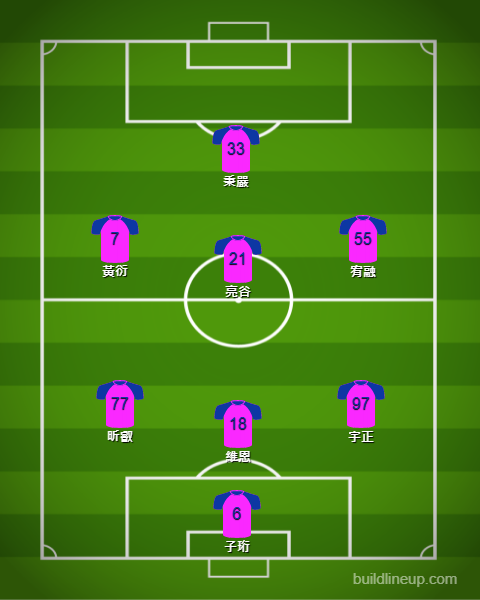
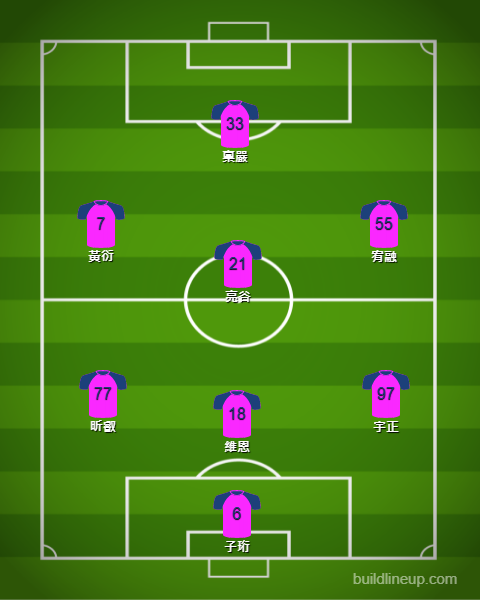
add student cup player and match data / fix typo

diff --git a/js/player.js b/js/player.js
@@ -49,7 +49,7 @@ new Vue({
                 number: '3',
                 name: '晉 丞',
                 active: true,
-                position: ['MF', 'FW'],
+                position: ['DF', 'MF', 'FW'],
                 appearance: [{
                         year: '2020',
                         cup: '新北聯合盃',
@@ -84,6 +84,14 @@ new Vue({
                         year: '2021',
                         cup: '春季大安盃',
                         g: '2',
+                        goals: '0',
+                        asts: '0',
+                        cs: '0'
+                    },
+                    {
+                        year: '2021',
+                        cup: '學童盃',
+                        g: '1',
                         goals: '0',
                         asts: '0',
                         cs: '0'
@@ -135,7 +143,7 @@ new Vue({
                     {
                         year: '2021',
                         cup: '學童盃',
-                        g: '1',
+                        g: '2',
                         goals: '0',
                         asts: '0',
                         cs: '0'
@@ -230,6 +238,14 @@ new Vue({
                         goals: '0',
                         asts: '0',
                         cs: '0'
+                    },
+                    {
+                        year: '2021',
+                        cup: '學童盃',
+                        g: '1',
+                        goals: '0',
+                        asts: '0',
+                        cs: '0'
                     }
                 ]
             },
@@ -280,6 +296,14 @@ new Vue({
                         year: '2021',
                         cup: '安聯小小世界盃',
                         g: '3',
+                        goals: '0',
+                        asts: '0',
+                        cs: '0'
+                    },
+                    {
+                        year: '2021',
+                        cup: '學童盃',
+                        g: '1',
                         goals: '0',
                         asts: '0',
                         cs: '0'
@@ -346,7 +370,7 @@ new Vue({
                     {
                         year: '2021',
                         cup: '學童盃',
-                        g: '1',
+                        g: '2',
                         goals: '0',
                         asts: '0',
                         cs: '0'
@@ -392,6 +416,14 @@ new Vue({
                         year: '2021',
                         cup: '春季大安盃',
                         g: '2',
+                        goals: '0',
+                        asts: '0',
+                        cs: '0'
+                    },
+                    {
+                        year: '2021',
+                        cup: '學童盃',
+                        g: '1',
                         goals: '0',
                         asts: '0',
                         cs: '0'
@@ -443,7 +475,7 @@ new Vue({
                     {
                         year: '2021',
                         cup: '學童盃',
-                        g: '1',
+                        g: '2',
                         goals: '1',
                         asts: '0',
                         cs: '0'
@@ -503,7 +535,7 @@ new Vue({
                     {
                         year: '2021',
                         cup: '學童盃',
-                        g: '1',
+                        g: '2',
                         goals: '0',
                         asts: '0',
                         cs: '0'
@@ -567,7 +599,7 @@ new Vue({
                 number: '23',
                 name: '柏 燁',
                 active: true,
-                position: ['MF'],
+                position: ['DF', 'MF'],
                 appearance: [{
                         year: '2021',
                         cup: '春季大安盃',
@@ -581,6 +613,14 @@ new Vue({
                         cup: '安聯小小世界盃',
                         g: '3',
                         goals: '1',
+                        asts: '0',
+                        cs: '0'
+                    },
+                    {
+                        year: '2021',
+                        cup: '學童盃',
+                        g: '1',
+                        goals: '0',
                         asts: '0',
                         cs: '0'
                     }
@@ -647,7 +687,7 @@ new Vue({
                     {
                         year: '2021',
                         cup: '學童盃',
-                        g: '1',
+                        g: '2',
                         goals: '0',
                         asts: '0',
                         cs: '0'
@@ -721,7 +761,7 @@ new Vue({
                     {
                         year: '2021',
                         cup: '學童盃',
-                        g: '1',
+                        g: '2',
                         goals: '0',
                         asts: '0',
                         cs: '0'
@@ -759,7 +799,7 @@ new Vue({
                     {
                         year: '2021',
                         cup: '學童盃',
-                        g: '1',
+                        g: '2',
                         goals: '0',
                         asts: '0',
                         cs: '0'
@@ -827,7 +867,7 @@ new Vue({
                     {
                         year: '2021',
                         cup: '學童盃',
-                        g: '1',
+                        g: '2',
                         goals: '0',
                         asts: '0',
                         cs: '0'

diff --git a/js/match.js b/js/match.js
@@ -1224,7 +1224,7 @@ new Vue({
             trophy: '',
             team: [{
                 name: '勇士',
-                members: '晉丞、黃衍、紘豪、善捷、皓宇、凱泰、維恩、亮谷、柏燁、定謙、宥融、昕叡、宇正、子珩*、宇辰*、稟嚴*'
+                members: '晉丞、黃衍、紘豪、善捷、皓宇、凱泰、維恩、亮谷、柏燁、定謙、宥融、昕叡、宇正、子珩*、宇晨*、稟嚴*'
             }],
             note: '',
             matches: [{
@@ -1232,13 +1232,13 @@ new Vue({
                 pitch: '新莊體育場',
                 opponent: '航源FC-U9',
                 formation: '3-3-1',
-                starters: ['GK-子珩', 'RB-宇正', 'CB-維恩', 'LB-昕叡', 'RM-宥融', 'CM-亮谷', 'LM-黃衍', 'CF-秉嚴'],
+                starters: ['GK-子珩', 'RB-宇正', 'CB-維恩', 'LB-昕叡', 'RM-宥融', 'CM-亮谷', 'LM-黃衍', 'CF-稟嚴'],
                 subs: [{
                     number: 12,
                     name: '皓宇'
                 }, {
                     number: 17,
-                    name: '宇辰'
+                    name: '宇晨'
                 }, {
                     number: 27,
                     name: '定謙'
@@ -1252,6 +1252,46 @@ new Vue({
                     assist: ''
                 }],
                 goalkeepers: ['子珩'],
+                isCleanSheet: false,
+                instructors: ['柏豪', '怡萍'],
+                note: '* 學長／姐'
+            }, {
+                date: '20210905',
+                pitch: '新莊體育場',
+                opponent: '台北Playone',
+                formation: '3-3-1',
+                starters: ['GK-子珩', 'RB-宇正', 'CB-維恩', 'LB-黃衍', 'RM-昕叡', 'CM-皓宇', 'LM-定謙', 'CF-稟嚴'],
+                subs: [{
+                    number: 3,
+                    name: '晉丞'
+                }, {
+                    number: 9,
+                    name: '紘豪'
+                }, {
+                    number: 10,
+                    name: '善捷'
+                }, {
+                    number: 15,
+                    name: '凱泰'
+                }, {
+                    number: 17,
+                    name: '宇晨'
+                }, {
+                    number: 21,
+                    name: '亮谷'
+                }, {
+                    number: 23,
+                    name: '柏燁'
+                }, {
+                    number: 55,
+                    name: '宥融'
+                }],
+                subTeam: '勇士',
+                final_score: '0 : 8',
+                pso: '',
+                wdl: 'L',
+                scorers: [],
+                goalkeepers: ['子珩', '凱泰'],
                 isCleanSheet: false,
                 instructors: ['柏豪', '怡萍'],
                 note: '* 學長／姐'
